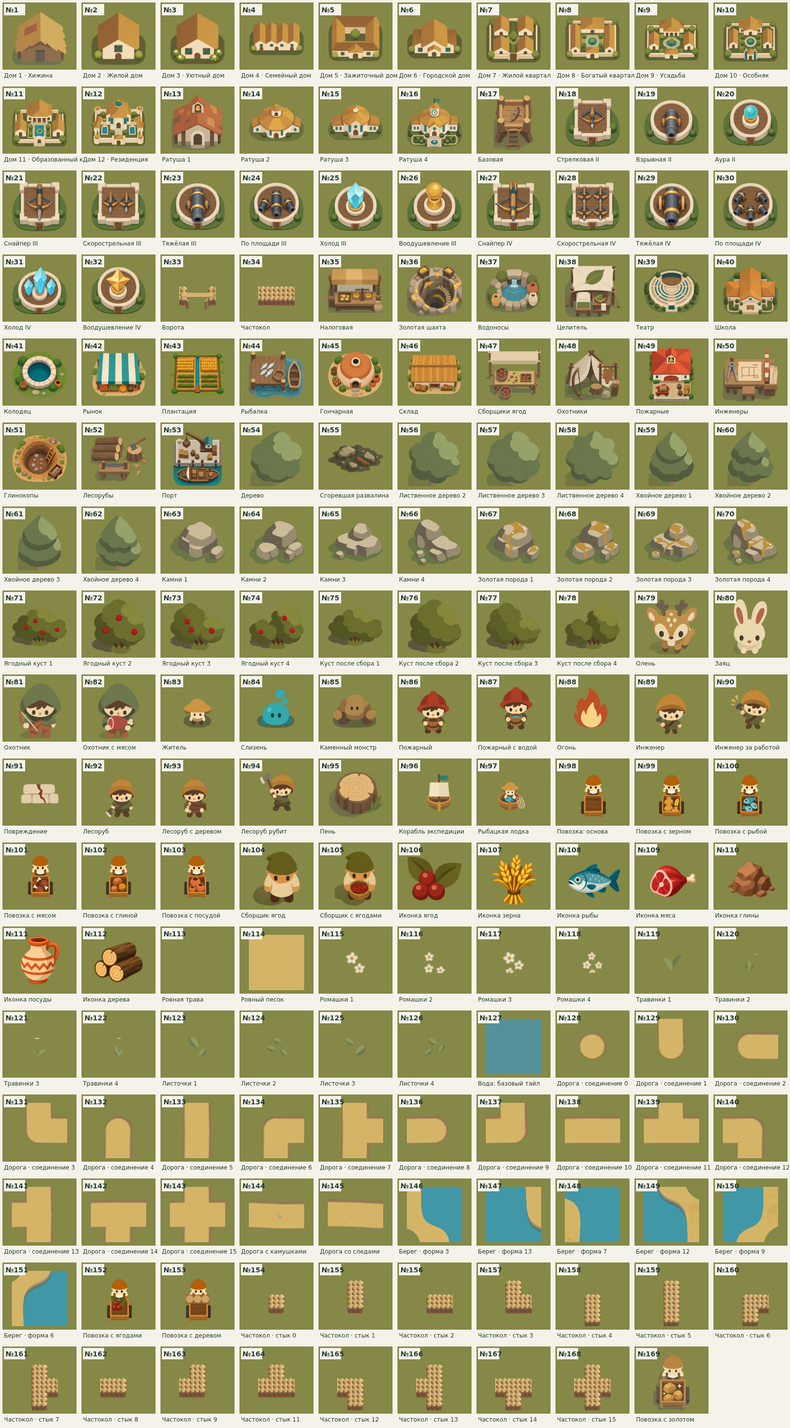
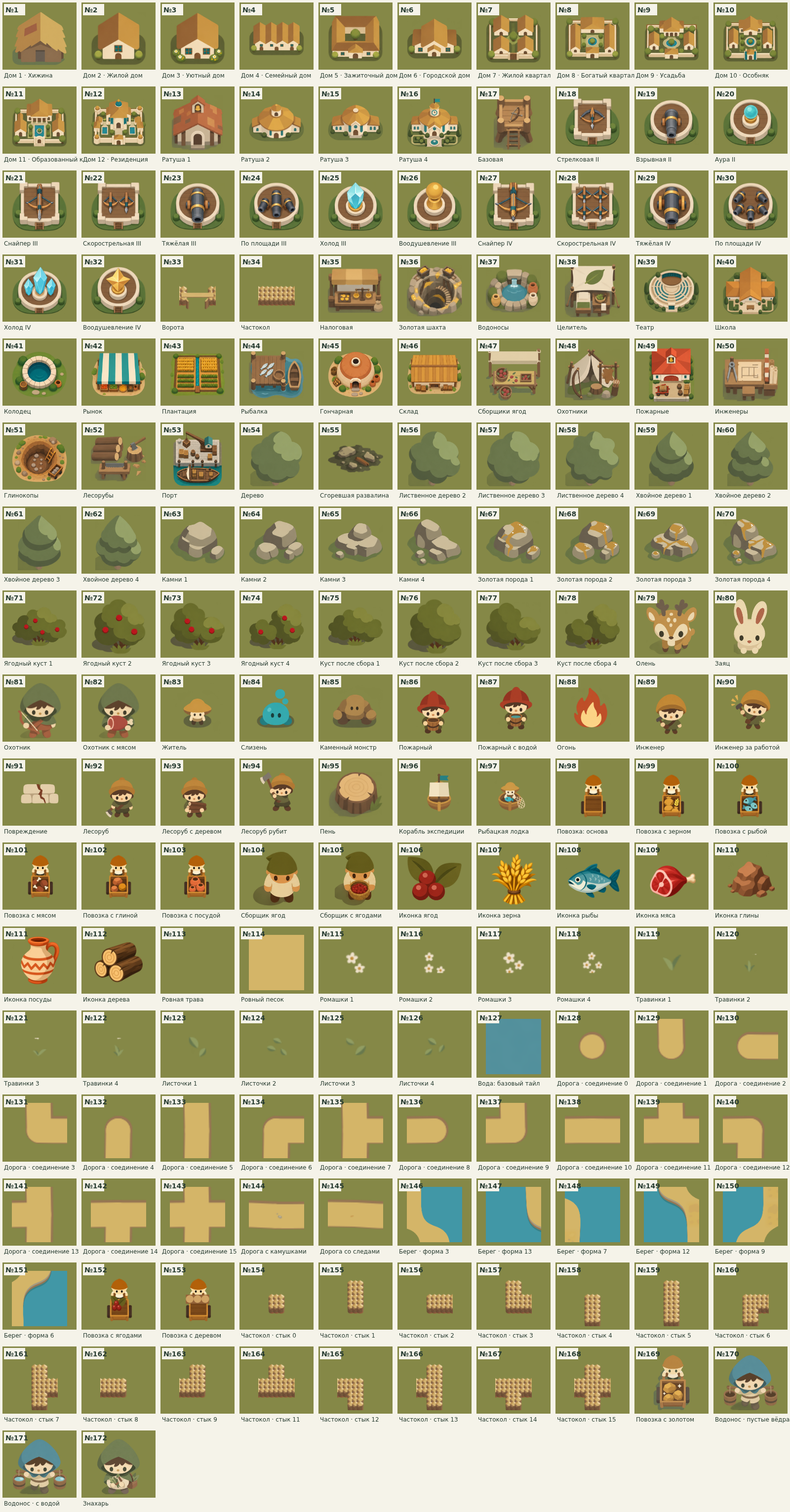
Нарисовать водоноса и знахаря, добавить страницу сравнения домов

diff --git a/game.js b/game.js
@@ -36,7 +36,7 @@ if(b.type==='lumber')html+=`<p>В лесу: ${city.lumberjacks.filter(w=>w.lodge
 function ui(){for(const btn of document.querySelectorAll('[data-tool]')){const name=btn.dataset.tool,level=PROGRESSION.buildingLevels[name]||1;btn.hidden=name==='taxoffice'&&city.hallLevel()<3;btn.disabled=level>city.hallLevel();btn.title=btn.disabled?'Нужна ратуша уровня '+level:TYPES[name].desc;}if($('undo'))$('undo').disabled=!city.undoStack.length;for(const n of ['coins','population'])$(n).textContent=Math.floor(city[n]);for(const good of Object.keys(GOODS))$(good==='game'?'game-resource':good).textContent=Math.floor(city.resourceAmount(good));const warehouses=city.buildings.filter(b=>b.type==='warehouse');$('storage').textContent=Math.floor(warehouses.reduce((n,b)=>n+city.stockSize(b),0))+'/'+warehouses.reduce((n,b)=>n+city.stockLimit(b),0);$('population').title='Рабочих: '+city.workforce+'; занято: '+city.employed+'; без работы: '+city.unemployed+'; вакансий: '+city.vacancies;$('day').textContent=Math.floor(city.time/12)+1;$('season').textContent=' · День '+(Math.floor(city.time/12)+1);$('world-status').textContent=city.lost?'Ратуша разрушена':city.buildings.some(b=>b.fire)?'Пожар! Очагов: '+city.buildings.filter(b=>b.fire).length:city.waveActive?'Нападение · волна '+city.wave:'Спокойно';$('wave').disabled=city.waveActive||city.lost;$('wave').textContent=city.waveActive?'⚑ Врагов: '+(city.enemies.length+city.spawnLeft):'⚑ Начать '+(city.wave+1)+'-ю волну';$('wave-note').textContent=city.waveActive?'Башни защищают автоматически. Можно строить и ремонтировать.':'Нападения с '+({north:'севера',east:'востока',south:'юга',west:'запада'}[city.attackSide])+'. Начало — по вашей команде.';const homes=city.buildings.filter(b=>b.type==='house'),cap=city.hallLevel()*3,grown=homes.filter(b=>b.level>=cap).reduce((n,h)=>n+(h.size||1)**2,0);$('objective').innerHTML=`${grown>=3?'✓':'○'} Развить 3 участка до уровня ${cap} <span>${grown}/3</span><br>${city.hallLevel()<4?'○ Открыть ратушу '+(city.hallLevel()+1):'✓ Ратуша IV: дома до уровня XII'}<br><a href="progression.html" target="_blank">Потребности и развитие домов ↗</a>`;$('world-map').hidden=!city.worldUnlocked;if($('world-dialog').open)renderWorld();if(selected)selection();ResourceUI.decorate(document.getElementById('resources')||document.querySelector('header'));ResourceUI.decorate($('objective'));while(city.events.length)toast(city.events.shift());}
 class World extends Phaser.Scene{
 constructor(){super('World');this.rev=-1;this.buildingSprites=new Map();this.palisadePostSprites=new Map();this.gateDetailSprites=new Map();this.wallShadow=null;this.enemySprites=new Map();this.villagers=[];this.elapsed=0;this.uiTime=0;this.down=null;this.moved=false;this.lastPaint='';this.cargoSprites=new Map();this.goldCargoSprites=new Map();this.workersWorking=0;}
-preload(){this.load.image('gold-cart','assets/gold-cart-v1.webp');this.load.image('berry-bushes','assets/berry-bushes-v1.webp');this.load.image('berries','assets/berries-v2.webp');this.load.image('forest','assets/trees-v4.webp');this.load.image('rocks','assets/rocks-v6.webp');this.load.json('natural-art-frames','assets/natural-art-frames-v1.json');this.load.image('ground-details','assets/ground-details-v3.webp');this.load.json('ground-detail-frames','assets/ground-details-v3.json');this.load.json('art-frames','assets/art-frames-v1.json');this.load.image('ruin','assets/ruin-v2.webp');this.load.image('economy','assets/economy-v3.webp');this.load.image('resident-services','assets/resident-services-v3.webp');this.load.image('halls','assets/halls-v3.webp');this.load.image('palisade','assets/palisade-post-v4.webp');this.load.image('palisade-parts','assets/palisade-parts-v4.webp');this.load.json('palisade-parts-frames','assets/palisade-parts-v4.json');this.load.on('progress',value=>{const loading=$('loading');if(loading)loading.textContent='Загружаем город · '+Math.round(value*100)+'%';});this.load.on('loaderror',()=>{const loading=$('loading');if(loading)loading.textContent='Не удалось загрузить графику. Обновите страницу.';});this.load.image('towers','assets/towers-v7.webp');this.load.image('loggers','assets/loggers-v2.webp');this.load.image('facilities','assets/facilities-v7.webp');this.load.image('civic','assets/civic-v7.webp');this.load.image('fire','assets/fire-v1.webp');this.load.image('engineers','assets/engineers-v1.webp');this.load.image('hunting','assets/hunting-v3.webp');this.load.image('sea','assets/sea-atlas-v1.webp');this.load.image('houses','assets/houses-v5.webp');this.load.image('atlas','assets/town-atlas-v4.webp');this.load.image('cargo','assets/cargo-atlas.webp');this.load.image('terrain','assets/terrain-v3.webp');}
+preload(){this.load.image('healer-worker','assets/healer-worker-v1.webp');this.load.image('water-carriers','assets/water-carriers-v1.webp');this.load.image('gold-cart','assets/gold-cart-v1.webp');this.load.image('berry-bushes','assets/berry-bushes-v1.webp');this.load.image('berries','assets/berries-v2.webp');this.load.image('forest','assets/trees-v4.webp');this.load.image('rocks','assets/rocks-v6.webp');this.load.json('natural-art-frames','assets/natural-art-frames-v1.json');this.load.image('ground-details','assets/ground-details-v3.webp');this.load.json('ground-detail-frames','assets/ground-details-v3.json');this.load.json('art-frames','assets/art-frames-v1.json');this.load.image('ruin','assets/ruin-v2.webp');this.load.image('economy','assets/economy-v3.webp');this.load.image('resident-services','assets/resident-services-v3.webp');this.load.image('halls','assets/halls-v3.webp');this.load.image('palisade','assets/palisade-post-v4.webp');this.load.image('palisade-parts','assets/palisade-parts-v4.webp');this.load.json('palisade-parts-frames','assets/palisade-parts-v4.json');this.load.on('progress',value=>{const loading=$('loading');if(loading)loading.textContent='Загружаем город · '+Math.round(value*100)+'%';});this.load.on('loaderror',()=>{const loading=$('loading');if(loading)loading.textContent='Не удалось загрузить графику. Обновите страницу.';});this.load.image('towers','assets/towers-v7.webp');this.load.image('loggers','assets/loggers-v2.webp');this.load.image('facilities','assets/facilities-v7.webp');this.load.image('civic','assets/civic-v7.webp');this.load.image('fire','assets/fire-v1.webp');this.load.image('engineers','assets/engineers-v1.webp');this.load.image('hunting','assets/hunting-v3.webp');this.load.image('sea','assets/sea-atlas-v1.webp');this.load.image('houses','assets/houses-v5.webp');this.load.image('atlas','assets/town-atlas-v4.webp');this.load.image('cargo','assets/cargo-atlas.webp');this.load.image('terrain','assets/terrain-v3.webp');}
 create(){scene=this;this.warehouseIndicators=new Map();this.staffIndicators=new Map();this.moneyWorkers=new Map();this.rockSprites=new Map();this.berrySprites=new Map();this.foragerSprites=new Map();this.forestSprites=new Map();this.loggerSprites=new Map();this.stumpFX=null;this.damageSprites=new Map();this.fireSprites=new Map();this.serviceSprites=new Map();this.serviceFX=null;this.animalSprites=new Map();this.hunterSprites=new Map();this.rev=-1;this.buildingSprites=new Map();this.palisadePostSprites=new Map();this.gateDetailSprites=new Map();this.wallShadow=null;this.enemySprites=new Map();this.villagers=[];this.cargoSprites=new Map();this.goldCargoSprites=new Map();this.shoppers=new Map();this.seenPickups=new Map();this.boatSprites=new Map();this.missionSprites=new Map();this.health=null;this.workFX=null;this.fishFX=null;this.down=null;this.pinch=null;this.pinchBlocked=false;this.uiTime=0;$('loading')?.remove();for(const [name,cols,rows]of [['ruin',1,1],['economy',3,2],['resident-services',2,2],['halls',2,2],['palisade',1,1],['facilities',3,3],['civic',3,3],['towers',4,4],['loggers',2,2]]){const texture=this.textures.get(name),image=texture.getSourceImage();for(let i=0;i<cols*rows;i++){const x=Math.round((i%cols)*image.width/cols),y=Math.round(Math.floor(i/cols)*image.height/rows);texture.add('sprite'+i,0,x,y,Math.round((i%cols+1)*image.width/cols)-x,Math.round((Math.floor(i/cols)+1)*image.height/rows)-y);}}for(const name of ['fire','engineers']){const texture=this.textures.get(name),image=texture.getSourceImage();for(let i=0;i<4;i++)texture.add('sprite'+i,0,(i%2)*image.width/2,Math.floor(i/2)*image.height/2,image.width/2,image.height/2);}const hunt=this.textures.get('hunting'),hs=hunt.getSourceImage();for(let i=0;i<4;i++)hunt.add('sprite'+i,0,(i%2)*hs.width/2,Math.floor(i/2)*hs.height/2,hs.width/2,hs.height/2);const sea=this.textures.get('sea'),se=sea.getSourceImage();for(let i=0;i<4;i++){const x=Math.round((i%2)*se.width/2),y=Math.round(Math.floor(i/2)*se.height/2);sea.add('sprite'+i,0,x,y,Math.round((i%2+1)*se.width/2)-x,Math.round((Math.floor(i/2)+1)*se.height/2)-y);}const atlas=this.textures.get('atlas'),img=atlas.getSourceImage();for(let i=0;i<16;i++){const col=i%4,row=Math.floor(i/4),x=Math.round(col*img.width/4),y=Math.round(row*img.height/4);atlas.add('sprite'+i,0,x,y,Math.round((col+1)*img.width/4)-x,Math.round((row+1)*img.height/4)-y);}
 const houses=this.textures.get('houses'),hi=houses.getSourceImage();for(let i=0;i<12;i++){const x=Math.round(i%3*hi.width/3),y=Math.round(Math.floor(i/3)*hi.height/4);houses.add('house'+i,0,x,y,Math.round((i%3+1)*hi.width/3)-x,Math.round((Math.floor(i/3)+1)*hi.height/4)-y);}
 for(const [name,frames]of Object.entries({...this.cache.json.get('art-frames'),...this.cache.json.get('natural-art-frames')})){const texture=this.textures.get(name);frames.forEach((r,i)=>{const frame=(name==='houses'?'house':'sprite')+i;texture.remove(frame);texture.add(frame,0,r.x,r.y,r.width,r.height);});}
@@ -107,7 +107,7 @@ workAnchor(b,slot=1){const size=b.size||1;return {x:(b.x+size/2)*TILE+(slot%3-1)
 placeWorkingPeople(){for(const v of this.villagers)if(v.phase==='working'){const b=city.buildings.find(b=>b.id===v.jobId);if(b){const p=this.workAnchor(b,v.homeId%3);v.image.setPosition(p.x,p.y+Math.sin(city.time*8+v.homeId)*1.2).setDepth(10+p.y);}}for(const[workers,sprites]of [[city.foragers,this.foragerSprites],[city.lumberjacks,this.loggerSprites],[city.hunters,this.hunterSprites],[city.engineers,this.serviceSprites],[city.firefighters,this.serviceSprites],[city.waterCarriers,this.serviceSprites],[city.healers,this.serviceSprites],[city.miners,this.moneyWorkers],[city.taxCollectors,this.moneyWorkers]])for(const w of workers){if(!['repair','treat','fill','extinguish','mine','unload','collect'].includes(w.state)&&!(w.state==='return'&&w.cargo>0&&w.route&&w.p>=w.route.length-1))continue;const b=city.at(Math.round(w.x),Math.round(w.y));if(!b||['tree','ruin','palisade','gate'].includes(b.type))continue;const item=sprites.get(w.id),image=item?.image||item;if(!image)continue;const p=this.workAnchor(b,w.slot||0);image.setPosition(p.x,p.y).setDepth(10+p.y);if(item.cargo)item.cargo.setPosition(p.x+11,p.y-15).setDepth(11+p.y);}}
 animateBerries(){const live=new Set();for(const bush of city.berryBushes){live.add(bush.id);let sprite=this.berrySprites.get(bush.id);if(!sprite){sprite=this.add.image(0,0,'berries','sprite0').setOrigin(.5,.85);this.berrySprites.set(bush.id,sprite);}const texture=this.textures.exists('berry-bushes')?'berry-bushes':'berries',frame='sprite'+(bush.variant+(bush.alive?0:texture==='berry-bushes'?4:0));sprite.setTexture(texture,frame);const fit=43/Math.max(sprite.frame.width,sprite.frame.height);sprite.setDisplaySize(sprite.frame.width*fit,sprite.frame.height*fit).setPosition(bush.x*TILE+32,bush.y*TILE+43).setVisible(!bush.cleared&&!city.at(bush.x,bush.y)&&!city.roads.has(key(bush.x,bush.y))).setDepth(10+bush.y*TILE+43);}for(const[id,sprite]of this.berrySprites)if(!live.has(id)){sprite.destroy();this.berrySprites.delete(id);}const workers=new Set();for(const w of city.foragers){workers.add(w.id);let sprite=this.foragerSprites.get(w.id);if(!sprite){sprite=this.add.image(0,0,'berries','sprite5').setOrigin(.5,.85);this.foragerSprites.set(w.id,sprite);}sprite.setTexture('berries',w.cargo?'sprite6':'sprite5');const fit=18/Math.max(sprite.frame.width,sprite.frame.height);sprite.setDisplaySize(sprite.frame.width*fit,sprite.frame.height*fit).setVisible(w.state!=='idle').setPosition(w.x*TILE+32,w.y*TILE+43).setDepth(10+w.y*TILE+43).setRotation(w.state==='hunt'?Math.sin(city.time*7)*.08:0);}for(const[id,sprite]of this.foragerSprites)if(!workers.has(id)){sprite.destroy();this.foragerSprites.delete(id);}}
 animateForest(){for(const tree of city.forestNodes){let sprite=this.forestSprites.get(tree.id);if(!sprite){sprite=this.add.image(tree.x*TILE+32,tree.y*TILE+37,'atlas',tree.type==='broadleaf'?'sprite10':'sprite11').setOrigin(.5,.8).setDepth(3);this.forestSprites.set(tree.id,sprite);}const grow=tree.alive?1:Math.max(0,(city.time-(tree.respawnAt-120))/120),sapling=!tree.alive&&grow>.45;const variant=((tree.x*13+tree.y*7)>>>0)%4,texture=tree.alive||sapling?'forest':'loggers',frame=tree.alive||sapling?'sprite'+(variant+(tree.type==='broadleaf'?0:4)):'sprite3';sprite.setTexture(texture,frame).setVisible(!tree.cleared&&!city.at(tree.x,tree.y)).setDepth(10+tree.y*TILE+37);if(tree.alive||sapling){const scale=tree.alive?1:(grow-.45)/.55*.8+.2;const fit=Math.min(78*scale/Math.max(sprite.frame.width,sprite.frame.height),58*scale/sprite.frame.width);sprite.setDisplaySize(sprite.frame.width*fit,sprite.frame.height*fit);}else sprite.setDisplaySize(38,38);}const live=new Set();for(const w of city.lumberjacks){live.add(w.id);let sprite=this.loggerSprites.get(w.id);if(!sprite){sprite=this.add.image(0,0,'loggers','sprite0').setDisplaySize(34,34).setOrigin(.5,.85);this.loggerSprites.set(w.id,sprite);}const lodge=city.buildings.find(b=>b.id===w.lodgeId),active=lodge?.connected&&lodge.workers>w.slot;sprite.setTexture('loggers',w.cargo?'sprite1':w.state==='hunt'?'sprite2':'sprite0').setVisible(w.state!=='idle').setPosition(w.x*TILE+32,w.y*TILE+43+(active?Math.sin(city.time*10+w.slot)*1.4:0)).setDepth(10+w.y*TILE+43).setRotation(w.state==='hunt'&&active?Math.sin(city.time*7)*.14:0);}for(const[id,sprite]of this.loggerSprites)if(!live.has(id)){sprite.destroy();this.loggerSprites.delete(id);}}
-animateServices(){const damaged=new Set();for(const b of city.buildings){if(['tree','ruin','palisade','gate'].includes(b.type)||b.fire||b.hp/b.maxHp>.8||city.time-(b.lastInspection??city.time)<=180)continue;damaged.add(b.id);let sprite=this.damageSprites.get(b.id);if(!sprite){sprite=this.add.image(0,0,'engineers','sprite3').setDisplaySize(27,27);this.damageSprites.set(b.id,sprite);}sprite.setPosition(b.x*TILE+49,b.y*TILE+48).setDepth(19+b.y*TILE+51);}for(const[id,sprite]of this.damageSprites)if(!damaged.has(id)){sprite.destroy();this.damageSprites.delete(id);}if(!this.serviceFX)this.serviceFX=this.add.graphics().setDepth(1800);this.serviceFX.clear();const fires=new Set();for(const b of city.buildings.filter(b=>b.fire)){fires.add(b.id);let sprite=this.fireSprites.get(b.id);if(!sprite){sprite=this.add.image(0,0,'fire','sprite3').setOrigin(.5,.85);this.fireSprites.set(b.id,sprite);}const flicker=Math.sin(city.time*9+b.id);sprite.setPosition(b.x*TILE+32,b.y*TILE+34).setDisplaySize(72+flicker*5,78+flicker*7).setDepth(14+b.y*TILE+51);for(let i=0;i<3;i++){const p=(city.time*.4+i/3)%1;this.serviceFX.fillStyle(0x5b5740,(1-p)*.28);this.serviceFX.fillCircle(b.x*TILE+32+Math.sin(p*5)*9,b.y*TILE-5-p*48,5+p*10);}}for(const[id,sprite]of this.fireSprites)if(!fires.has(id)){sprite.destroy();this.fireSprites.delete(id);}const live=new Set();for(const [kind,workers]of [['fire',city.firefighters],['engineers',city.engineers],['fire',city.waterCarriers],['atlas',city.healers]])for(const w of workers){live.add(w.id);let sprite=this.serviceSprites.get(w.id);if(!sprite){sprite=this.add.image(0,0,kind,'sprite1').setOrigin(.5,.85).setDisplaySize(34,34);this.serviceSprites.set(w.id,sprite);}const station=city.buildings.find(b=>b.id===w.stationId),active=station?.connected&&!station.fire&&station.workers>w.slot;const frame=kind==='atlas'?12:kind==='fire'?(w.water>0?2:1):(w.state==='repair'?2:1);sprite.setTexture(kind,'sprite'+frame);if(kind==='atlas')sprite.setDisplaySize(25,29);sprite.setVisible(w.state!=='idle').setPosition(w.x*TILE+32,w.y*TILE+43+(active?Math.sin(city.time*10+w.slot)*1.5:0)).setDepth(10+w.y*TILE+43).setRotation(w.state==='repair'&&active?Math.sin(city.time*8)*.12:0);if(kind==='fire'&&w.state==='extinguish'&&active&&w.water>0){const target=city.buildings.find(b=>b.id===w.targetId&&b.fire);if(target){this.serviceFX.lineStyle(3,0x9dd4ca,.8);this.serviceFX.lineBetween(w.x*TILE+37,w.y*TILE+21,target.x*TILE+32,target.y*TILE+13);this.serviceFX.fillStyle(0xc3e5d7,.7);this.serviceFX.fillCircle(target.x*TILE+32+Math.sin(city.time*12)*5,target.y*TILE+13,3);}}}for(const[id,sprite]of this.serviceSprites)if(!live.has(id)){sprite.destroy();this.serviceSprites.delete(id);}}
+animateServices(){const damaged=new Set();for(const b of city.buildings){if(['tree','ruin','palisade','gate'].includes(b.type)||b.fire||b.hp/b.maxHp>.8||city.time-(b.lastInspection??city.time)<=180)continue;damaged.add(b.id);let sprite=this.damageSprites.get(b.id);if(!sprite){sprite=this.add.image(0,0,'engineers','sprite3').setDisplaySize(27,27);this.damageSprites.set(b.id,sprite);}sprite.setPosition(b.x*TILE+49,b.y*TILE+48).setDepth(19+b.y*TILE+51);}for(const[id,sprite]of this.damageSprites)if(!damaged.has(id)){sprite.destroy();this.damageSprites.delete(id);}if(!this.serviceFX)this.serviceFX=this.add.graphics().setDepth(1800);this.serviceFX.clear();const fires=new Set();for(const b of city.buildings.filter(b=>b.fire)){fires.add(b.id);let sprite=this.fireSprites.get(b.id);if(!sprite){sprite=this.add.image(0,0,'fire','sprite3').setOrigin(.5,.85);this.fireSprites.set(b.id,sprite);}const flicker=Math.sin(city.time*9+b.id);sprite.setPosition(b.x*TILE+32,b.y*TILE+34).setDisplaySize(72+flicker*5,78+flicker*7).setDepth(14+b.y*TILE+51);for(let i=0;i<3;i++){const p=(city.time*.4+i/3)%1;this.serviceFX.fillStyle(0x5b5740,(1-p)*.28);this.serviceFX.fillCircle(b.x*TILE+32+Math.sin(p*5)*9,b.y*TILE-5-p*48,5+p*10);}}for(const[id,sprite]of this.fireSprites)if(!fires.has(id)){sprite.destroy();this.fireSprites.delete(id);}const live=new Set();for(const [kind,workers]of [['fire',city.firefighters],['engineers',city.engineers],['water-carriers',city.waterCarriers],['healer-worker',city.healers]])for(const w of workers){live.add(w.id);let sprite=this.serviceSprites.get(w.id);if(!sprite){sprite=this.add.image(0,0,kind,kind==='healer-worker'?'sprite0':'sprite1').setOrigin(.5,.85).setDisplaySize(34,34);this.serviceSprites.set(w.id,sprite);}const station=city.buildings.find(b=>b.id===w.stationId),active=station?.connected&&!station.fire&&station.workers>w.slot;const frame=kind==='healer-worker'?0:kind==='water-carriers'?(w.water>0?1:0):kind==='atlas'?12:kind==='fire'?(w.water>0?2:1):(w.state==='repair'?2:1);sprite.setTexture(kind,'sprite'+frame);if(kind==='atlas')sprite.setDisplaySize(25,29);if(['water-carriers','healer-worker'].includes(kind)){const fit=30/Math.max(sprite.frame.width,sprite.frame.height);sprite.setDisplaySize(sprite.frame.width*fit,sprite.frame.height*fit);}sprite.setVisible(w.state!=='idle').setPosition(w.x*TILE+32,w.y*TILE+43+(active?Math.sin(city.time*10+w.slot)*1.5:0)).setDepth(10+w.y*TILE+43).setRotation(w.state==='repair'&&active?Math.sin(city.time*8)*.12:0);if(kind==='fire'&&w.state==='extinguish'&&active&&w.water>0){const target=city.buildings.find(b=>b.id===w.targetId&&b.fire);if(target){this.serviceFX.lineStyle(3,0x9dd4ca,.8);this.serviceFX.lineBetween(w.x*TILE+37,w.y*TILE+21,target.x*TILE+32,target.y*TILE+13);this.serviceFX.fillStyle(0xc3e5d7,.7);this.serviceFX.fillCircle(target.x*TILE+32+Math.sin(city.time*12)*5,target.y*TILE+13,3);}}}for(const[id,sprite]of this.serviceSprites)if(!live.has(id)){sprite.destroy();this.serviceSprites.delete(id);}}
 animateHunting(){const live=new Set();for(const a of city.animals){live.add(a.id);let sprite=this.animalSprites.get(a.id);if(!sprite){sprite=this.add.image(0,0,'hunting',a.type==='deer'?'sprite0':'sprite1').setDisplaySize(a.type==='deer'?45:30,a.type==='deer'?45:30).setOrigin(.5,.85);this.animalSprites.set(a.id,sprite);}const fit=(a.type==='deer'?45:30)/Math.max(sprite.frame.width,sprite.frame.height);sprite.setDisplaySize(sprite.frame.width*fit,sprite.frame.height*fit).setVisible(a.alive&&!city.at(Math.round(a.x),Math.round(a.y))).setPosition(a.x*TILE+32+Math.sin(city.time*.8+a.x)*3,a.y*TILE+40+Math.sin(city.time*2+a.y)*1.2).setDepth(10+a.y*TILE+40);}for(const[id,s]of this.animalSprites)if(!live.has(id)){s.destroy();this.animalSprites.delete(id);}const hunters=new Set();for(const h of city.hunters){hunters.add(h.id);let sprite=this.hunterSprites.get(h.id);if(!sprite){sprite=this.add.image(0,0,'hunting','sprite2').setDisplaySize(34,34).setOrigin(.5,.85);this.hunterSprites.set(h.id,sprite);}const lodge=city.buildings.find(b=>b.id===h.lodgeId);sprite.setTexture('hunting',h.cargo?'sprite3':'sprite2');const fit=18/Math.max(sprite.frame.width,sprite.frame.height);sprite.setDisplaySize(sprite.frame.width*fit,sprite.frame.height*fit).setVisible(h.state!=='idle').setPosition(h.x*TILE+32,h.y*TILE+43+(lodge?.workers>h.slot?Math.sin(city.time*10+h.slot)*1.4:0)).setDepth(10+h.y*TILE+43).setRotation(h.state==='hunt'?Math.sin(city.time*6)*.09:0);}for(const[id,s]of this.hunterSprites)if(!hunters.has(id)){s.destroy();this.hunterSprites.delete(id);}}
 animateSea(){if(!this.fishFX)this.fishFX=this.add.graphics().setDepth(5);this.fishFX.clear();for(const f of city.fishSpots){if(f.amount<1)continue;const x=f.x*TILE+32+Math.sin(city.time*.8+f.y)*6,y=f.y*TILE+32;this.fishFX.fillStyle(0xd0e5c2,.3+.5*f.amount/f.max);this.fishFX.fillEllipse(x,y,14,7);this.fishFX.fillTriangle(x-7,y,x-13,y-4,x-13,y+4);}const alive=new Set();for(const boat of city.boats){if(!city.buildings.some(b=>b.id===boat.portId))continue;alive.add(boat.id);let sprite=this.boatSprites.get(boat.id);if(!sprite){sprite=this.add.image(0,0,'sea','sprite3').setDisplaySize(46,46).setOrigin(.5,.8);this.boatSprites.set(boat.id,sprite);}sprite.setPosition(boat.x*TILE+32,boat.y*TILE+40+Math.sin(city.time*3+boat.id)*1.5).setDepth(10+boat.y*TILE+40).setRotation(Math.sin(city.time*2+boat.id)*.025);}for(const[id,sprite]of this.boatSprites)if(!alive.has(id)){sprite.destroy();this.boatSprites.delete(id);}const missions=new Set();for(const m of city.missions){missions.add(m.id);let sprite=this.missionSprites.get(m.id);if(!sprite){sprite=this.add.image(0,0,'sea','sprite2').setDisplaySize(53,53).setOrigin(.5,.8);const port=city.buildings.find(b=>b.id===m.portId);if(!port)continue;const water=city.portWater(port);const exits=[];for(let x=0;x<W;x++)for(const y of [0,H-1])if(terrain(x,y)==='water')exits.push({x,y});for(let y=0;y<H;y++)for(const x of [0,W-1])if(terrain(x,y)==='water')exits.push({x,y});const paths=exits.map(e=>city.seaPath(water,e)).filter(r=>r.length).sort((a,b)=>a.length-b.length);sprite.seaRoute=paths[0]||[[water.x,water.y],[water.x,water.y]];this.missionSprites.set(m.id,sprite);}const progress=m.elapsed/m.duration;sprite.setVisible(progress<.25||progress>.75);const t=progress<.25?progress*4:(1-progress)*4,route=sprite.seaRoute,p=Math.min(route.length-1,t*(route.length-1)),i=Math.floor(p),a=route[i],b=route[Math.min(i+1,route.length-1)],f=p-i;sprite.setPosition((a[0]+(b[0]-a[0])*f)*TILE+32,(a[1]+(b[1]-a[1])*f)*TILE+40).setDepth(10+sprite.y);}for(const[id,sprite]of this.missionSprites)if(!missions.has(id)){sprite.destroy();this.missionSprites.delete(id);}}
 animateGoldCargo(){const live=new Set();for(const shipment of city.goldShipments){live.add(shipment.id);let sprite=this.goldCargoSprites.get(shipment.id);if(!sprite){sprite=this.add.image(0,0,'gold-cart','sprite0').setOrigin(.5,.85);const fit=43/Math.max(sprite.frame.width,sprite.frame.height);sprite.setDisplaySize(sprite.frame.width*fit,sprite.frame.height*fit);this.goldCargoSprites.set(shipment.id,sprite);}const progress=Math.min(1,shipment.elapsed/shipment.duration)*(shipment.route.length-1),i=Math.min(shipment.route.length-2,Math.floor(progress)),f=progress-i,point=n=>{const [x,y]=shipment.route[n],b=city.buildings.find(b=>b.id===(n===0?shipment.from:n===shipment.route.length-1?shipment.to:null));return b?this.workAnchor(b,1):{x:x*TILE+32,y:y*TILE+40};},a=point(i),b=point(i+1),x=a.x+(b.x-a.x)*f,y=a.y+(b.y-a.y)*f;sprite.setPosition(x,y+(shipment.blocked?0:Math.sin(city.time*12+shipment.id)*.5)).setDepth(10+y);sprite.goldAmount=shipment.amount;}for(const[id,sprite]of this.goldCargoSprites)if(!live.has(id)){sprite.destroy();this.goldCargoSprites.delete(id);}}

diff --git a/review-map.html b/review-map.html
@@ -1,1 +1,1 @@
-<!doctype html><html lang="ru"><meta charset="utf-8"><meta name="viewport" content="width=device-width,initial-scale=1"><meta name="robots" content="noindex,nofollow"><title>Номерная карта Тиходола</title><style>*{box-sizing:border-box}body{margin:0;background:#f5f3e9;color:#293d32;font:15px system-ui}header{max-width:1600px;margin:auto;padding:20px}h1{font:30px Georgia;margin:16px 0 10px}a{color:#416b53}nav{display:flex;gap:16px;flex-wrap:wrap}#map{display:block;width:100%;max-width:1600px;height:auto;margin:auto;cursor:zoom-in}p{color:#69735f}dialog{background:#f5f3e9;border:0;border-radius:14px;max-width:95vw;padding:20px}dialog::backdrop{background:#233b32a0}dialog canvas{display:block;width:min(480px,80vw);height:auto}button{border:1px solid #dedfd0;background:#fcfbf5;padding:9px 14px;border-radius:8px;color:#293d32;font:inherit;cursor:pointer}</style><header><nav><a href="./">← Игра</a><a href="palette.html">Палитра</a><a href="assets/palette-audit-v1.json" download>Проверка цветов всех спрайтов</a><a href="assets/review-map-v1.png?v=3" download="hearthvale-review-map.png">Скачать одним PNG</a><a href="assets/review-map-v1.png?v=3" target="_blank">Открыть полный размер</a></nav><h1>Все тайлы и спрайты по номерам</h1><p>Нажми ячейку, чтобы рассмотреть крупнее. Номера закреплены за объектами; можно оценивать графику по ним.</p></header><img id="map" src="assets/review-map-v1.png?v=3" alt="Номерная карта всех текущих спрайтов и тайлов Тиходола"><dialog id="detail"><button id="close">Закрыть</button><h2 id="name"></h2><p id="palette-result"></p><div id="color-samples" style="display:flex;gap:8px;flex-wrap:wrap"></div><canvas id="zoom" width="480" height="510"></canvas></dialog><script>(async()=>{const audit=await fetch('assets/palette-audit-v1.json').then(r=>r.json());const data=await fetch('assets/review-map-items.json').then(r=>r.json()),map=document.getElementById('map');map.onclick=e=>{const r=map.getBoundingClientRect(),x=(e.clientX-r.x)/r.width*data.width,y=(e.clientY-r.y)/r.height*data.height,item=data.items.find(i=>x>=i.rect.x&&x<i.rect.x+i.rect.width&&y>=i.rect.y&&y<i.rect.y+i.rect.height);if(!item)return;document.getElementById('name').textContent='№'+item.number+' · '+item.name;const check=audit.items.find(x=>x.number===item.number),labels={exact:'Совпадает',close:'Близко к палитре',deviations:'Есть отклонения'};document.getElementById('palette-result').textContent=check?labels[check.status]+': '+check.withinDeltaE6+'% проверенных цветов близки к эталону. Проверка цвета не подтверждает ракурс.':'';const chips=document.getElementById('color-samples');chips.replaceChildren();for(const c of check?.dominantColors||[]){const el=document.createElement('span');el.style.cssText='padding:8px;border:1px solid #999;border-radius:4px;background:'+c.hex+';color:'+ (parseInt(c.hex.slice(1,3),16)>130?'#222':'#fff');el.textContent=c.hex+' → '+c.nearest.hex;chips.append(el);}const canvas=document.getElementById('zoom'),ctx=canvas.getContext('2d');ctx.clearRect(0,0,canvas.width,canvas.height);ctx.drawImage(map,item.rect.x,item.rect.y,item.rect.width,item.rect.height,0,0,480,510);document.getElementById('detail').showModal();};document.getElementById('close').onclick=()=>document.getElementById('detail').close();})();</script></html>
+<!doctype html><html lang="ru"><meta charset="utf-8"><meta name="viewport" content="width=device-width,initial-scale=1"><meta name="robots" content="noindex,nofollow"><title>Номерная карта Тиходола</title><style>*{box-sizing:border-box}body{margin:0;background:#f5f3e9;color:#293d32;font:15px system-ui}header{max-width:1600px;margin:auto;padding:20px}h1{font:30px Georgia;margin:16px 0 10px}a{color:#416b53}nav{display:flex;gap:16px;flex-wrap:wrap}#map{display:block;width:100%;max-width:1600px;height:auto;margin:auto;cursor:zoom-in}p{color:#69735f}dialog{background:#f5f3e9;border:0;border-radius:14px;max-width:95vw;padding:20px}dialog::backdrop{background:#233b32a0}dialog canvas{display:block;width:min(480px,80vw);height:auto}button{border:1px solid #dedfd0;background:#fcfbf5;padding:9px 14px;border-radius:8px;color:#293d32;font:inherit;cursor:pointer}</style><header><nav><a href="./">← Игра</a><a href="palette.html">Палитра</a><a href="assets/palette-audit-v1.json" download>Проверка цветов всех спрайтов</a><a href="assets/review-map-v1.png?v=4" download="hearthvale-review-map.png">Скачать одним PNG</a><a href="assets/review-map-v1.png?v=4" target="_blank">Открыть полный размер</a></nav><h1>Все тайлы и спрайты по номерам</h1><p>Нажми ячейку, чтобы рассмотреть крупнее. Номера закреплены за объектами; можно оценивать графику по ним.</p></header><img id="map" src="assets/review-map-v1.png?v=4" alt="Номерная карта всех текущих спрайтов и тайлов Тиходола"><dialog id="detail"><button id="close">Закрыть</button><h2 id="name"></h2><p id="palette-result"></p><div id="color-samples" style="display:flex;gap:8px;flex-wrap:wrap"></div><canvas id="zoom" width="480" height="510"></canvas></dialog><script>(async()=>{const audit=await fetch('assets/palette-audit-v1.json').then(r=>r.json());const data=await fetch('assets/review-map-items.json').then(r=>r.json()),map=document.getElementById('map');map.onclick=e=>{const r=map.getBoundingClientRect(),x=(e.clientX-r.x)/r.width*data.width,y=(e.clientY-r.y)/r.height*data.height,item=data.items.find(i=>x>=i.rect.x&&x<i.rect.x+i.rect.width&&y>=i.rect.y&&y<i.rect.y+i.rect.height);if(!item)return;document.getElementById('name').textContent='№'+item.number+' · '+item.name;const check=audit.items.find(x=>x.number===item.number),labels={exact:'Совпадает',close:'Близко к палитре',deviations:'Есть отклонения'};document.getElementById('palette-result').textContent=check?labels[check.status]+': '+check.withinDeltaE6+'% проверенных цветов близки к эталону. Проверка цвета не подтверждает ракурс.':'';const chips=document.getElementById('color-samples');chips.replaceChildren();for(const c of check?.dominantColors||[]){const el=document.createElement('span');el.style.cssText='padding:8px;border:1px solid #999;border-radius:4px;background:'+c.hex+';color:'+ (parseInt(c.hex.slice(1,3),16)>130?'#222':'#fff');el.textContent=c.hex+' → '+c.nearest.hex;chips.append(el);}const canvas=document.getElementById('zoom'),ctx=canvas.getContext('2d');ctx.clearRect(0,0,canvas.width,canvas.height);ctx.drawImage(map,item.rect.x,item.rect.y,item.rect.width,item.rect.height,0,0,480,510);document.getElementById('detail').showModal();};document.getElementById('close').onclick=()=>document.getElementById('detail').close();})();</script></html>

diff --git a/houses.html b/houses.html
@@ -1,0 +1,5 @@
+<!doctype html><html lang="ru"><meta charset="utf-8"><meta name="viewport" content="width=device-width,initial-scale=1"><title>Дома Тиходола</title><style>
+*{box-sizing:border-box}body{margin:0;background:#eee9d8;color:#404E3C;font:16px system-ui,sans-serif}main{max-width:1100px;margin:auto;padding:24px}h1{margin:0 0 12px}nav{display:flex;gap:16px;flex-wrap:wrap;margin-bottom:20px}a{color:inherit}button{font:inherit;padding:8px 14px;border:1px solid #977653;background:#E5D6B2;cursor:pointer;border-radius:8px}button[aria-pressed=true]{background:#404E3C;color:#F5EBD7}.row{display:grid;grid-template-columns:170px 1fr 1fr;gap:12px;margin-bottom:12px;align-items:stretch}.label{padding:16px 4px}.label strong{display:block;font-size:19px}.card{border:1px solid #D1C5A6;background:#F5EBD7;border-radius:12px;overflow:hidden}.picture{background:#858847;display:flex;align-items:center;justify-content:center;min-height:270px}.picture canvas{max-width:100%;height:auto}.caption{padding:12px;min-height:70px}small{display:block;margin-top:5px;color:#70685A}.unavailable{display:flex;align-items:center;justify-content:center;text-align:center;padding:20px;color:#70685A;background:#E5D6B2}.header{font-weight:600;padding:8px 12px}.scale-note{font-size:14px;color:#70685A}#error{color:#A96245}@media(max-width:650px){main{padding:12px}.row{grid-template-columns:1fr 1fr;gap:8px}.label{grid-column:1/-1;padding:8px 0}.picture{min-height:190px}.caption{font-size:14px}.header{padding:5px}.row.head .label{display:none}}
+</style><main><h1>Все дома Тиходола</h1><nav><a href="index.html">Игра</a><a href="review-map.html">Все спрайты</a><button data-scale="1" aria-pressed="false">Игровой размер</button><button data-scale="2" aria-pressed="true">Увеличить ×2</button></nav><p class="scale-note">Одинаковый фон и масштаб. Четыре соседних дома VI уровня объединяются в квартал 2×2; с VII уровня нужен квартал. Объединённые дома I–V показаны как варианты при упадке квартала: размер участка после понижения уровня сохраняется.</p><p id="error"></p><div class="row head"><div class="label"></div><div class="header">Дом · 1×1</div><div class="header">Объединённый квартал · 2×2</div></div><div id="houses"></div></main><script src="sim.js?v=38"></script><script>
+(async()=>{const frames=(await fetch('assets/art-frames-v1.json',{cache:'no-cache'}).then(r=>r.json())).houses,image=new Image();image.src='assets/houses-v5.webp';await image.decode();let zoom=2;const previews=[];for(let level=1;level<=12;level++){const row=document.createElement('section');row.className='row';row.dataset.level=level;const label=document.createElement('div');label.className='label';label.innerHTML='<strong>№'+level+' · '+TownSim.HOUSE_LEVELS[level].name+'</strong><small>Уровень '+level+' · ратуша '+Math.ceil(level/3)+'</small>';row.append(label);for(const size of [1,2]){const card=document.createElement('article');card.className='card';if(size===1&&level>6){card.classList.add('unavailable');card.textContent='Этот уровень требует квартал 2×2';}else{const picture=document.createElement('div');picture.className='picture';const canvas=document.createElement('canvas');canvas.dataset.size=size;canvas.dataset.level=level;picture.append(canvas);const caption=document.createElement('div');caption.className='caption';caption.innerHTML=(size===1?'Отдельный дом':'Объединённый дом')+' · '+size+'×'+size+'<small>'+(size===2&&level<6?'При понижении уровня квартала':size===2&&level===6?'Сразу после объединения четырёх домов':'')+'</small>';card.append(picture,caption);previews.push({canvas,size,frame:frames[level-1]});}row.append(card);}document.getElementById('houses').append(row);}function render(){for(const {canvas,size,frame:r}of previews){const side=160;canvas.width=canvas.height=side*zoom;const c=canvas.getContext('2d');c.scale(zoom,zoom);c.strokeStyle='rgba(229,214,178,.45)';c.lineWidth=1;const ox=(side-size*64)/2,oy=(side-size*64)/2;for(let x=0;x<=size;x++){c.beginPath();c.moveTo(ox+x*64,oy);c.lineTo(ox+x*64,oy+size*64);c.stroke();}for(let y=0;y<=size;y++){c.beginPath();c.moveTo(ox,oy+y*64);c.lineTo(ox+size*64,oy+y*64);c.stroke();}let scale=(size===2?140:78)/Math.max(r.width,r.height);scale=Math.min(scale,(size*64-6)/r.width);const w=r.width*scale,h=r.height*scale,px=side/2,py=oy+size*64-13;c.drawImage(image,r.x,r.y,r.width,r.height,px-w/2,py-h*.85,w,h);canvas.style.width=side*zoom+'px';}}document.querySelectorAll('[data-scale]').forEach(button=>button.onclick=()=>{zoom=Number(button.dataset.scale);document.querySelectorAll('[data-scale]').forEach(b=>b.setAttribute('aria-pressed',String(b===button)));render();});render();window.houseReviewReady=true;})().catch(e=>document.getElementById('error').textContent='Не удалось загрузить дома: '+e.message);
+</script></html>

diff --git a/boot.js b/boot.js
@@ -1,3 +1,3 @@
 'use strict';
 (async()=>{const loading=document.getElementById('loading');if('serviceWorker' in navigator){try{await Promise.race([(async()=>{await navigator.serviceWorker.register('./sw.js',{scope:'./',updateViaCache:'none'});await navigator.serviceWorker.ready;if(!navigator.serviceWorker.controller)await new Promise(resolve=>navigator.serviceWorker.addEventListener('controllerchange',resolve,{once:true}));})(),new Promise(resolve=>setTimeout(resolve,1200))]);}catch(error){/* Game remains usable when persistent caching is unavailable. */}}
-for(const src of ['assets/phaser.min.js','sim.js?v=37','resource-icons.js?v=2','game.js?v=37'])await new Promise((resolve,reject)=>{const script=document.createElement('script');script.src=src;script.onload=resolve;script.onerror=reject;document.body.append(script);});})().catch(()=>{const loading=document.getElementById('loading');if(loading)loading.textContent='Не удалось загрузить город. Проверьте соединение и обновите страницу.';});
+for(const src of ['assets/phaser.min.js','sim.js?v=38','resource-icons.js?v=2','game.js?v=38'])await new Promise((resolve,reject)=>{const script=document.createElement('script');script.src=src;script.onload=resolve;script.onerror=reject;document.body.append(script);});})().catch(()=>{const loading=document.getElementById('loading');if(loading)loading.textContent='Не удалось загрузить город. Проверьте соединение и обновите страницу.';});

diff --git a/docs/project-state.md b/docs/project-state.md
@@ -55,3 +55,7 @@ qa/terrain-browser-result.json, qa/bootstrap-economy-result.json.
 
 22:17: лекарь физически обходит закреплённые дома, включая второй ряд, и лечит 2 секунды после прихода. Потребность и качество лечения появляются только после визита и действуют 96 игровых секунд. Приоритет у домов с наиболее давним обходом. Маршруты лекарей и сроки визитов сохраняются; разрыв дороги блокирует обход. Водоносы по-прежнему физически доставляют воду, это повторно проверено.
 Водоносы задерживаются у дома на 1,5 секунды для передачи воды; во время передачи стоят перед зданием и не скрываются под ним. Проверены симуляция, сохранение и отображение обоих обходов на desktop и мобильной эмуляции; тестовые браузеры закрыты.
+
+22:21: отдельные сгенерированные растровые персонажи: water-carriers-v1 (пустые/полные вёдра, голубой капюшон и коромысло), healer-worker-v1 (знахарь с травами). В игре отображаются с сохранением пропорций, не больше 30px по длинной стороне. PNG и промпты сохранены; WebP — lossless. Пожарные сохраняют собственный спрайт.
+
+22:23: houses.html — отдельная страница сравнения всех 12 уровней домов. Отдельные дома I–VI и объединённые кварталы I–XII, включая упадок объединённого участка. Размер и позиция соответствуют renderBuildings; можно переключить игровой масштаб/×2. Используются текущие PNG/WebP, новой графики домов не создаётся.
